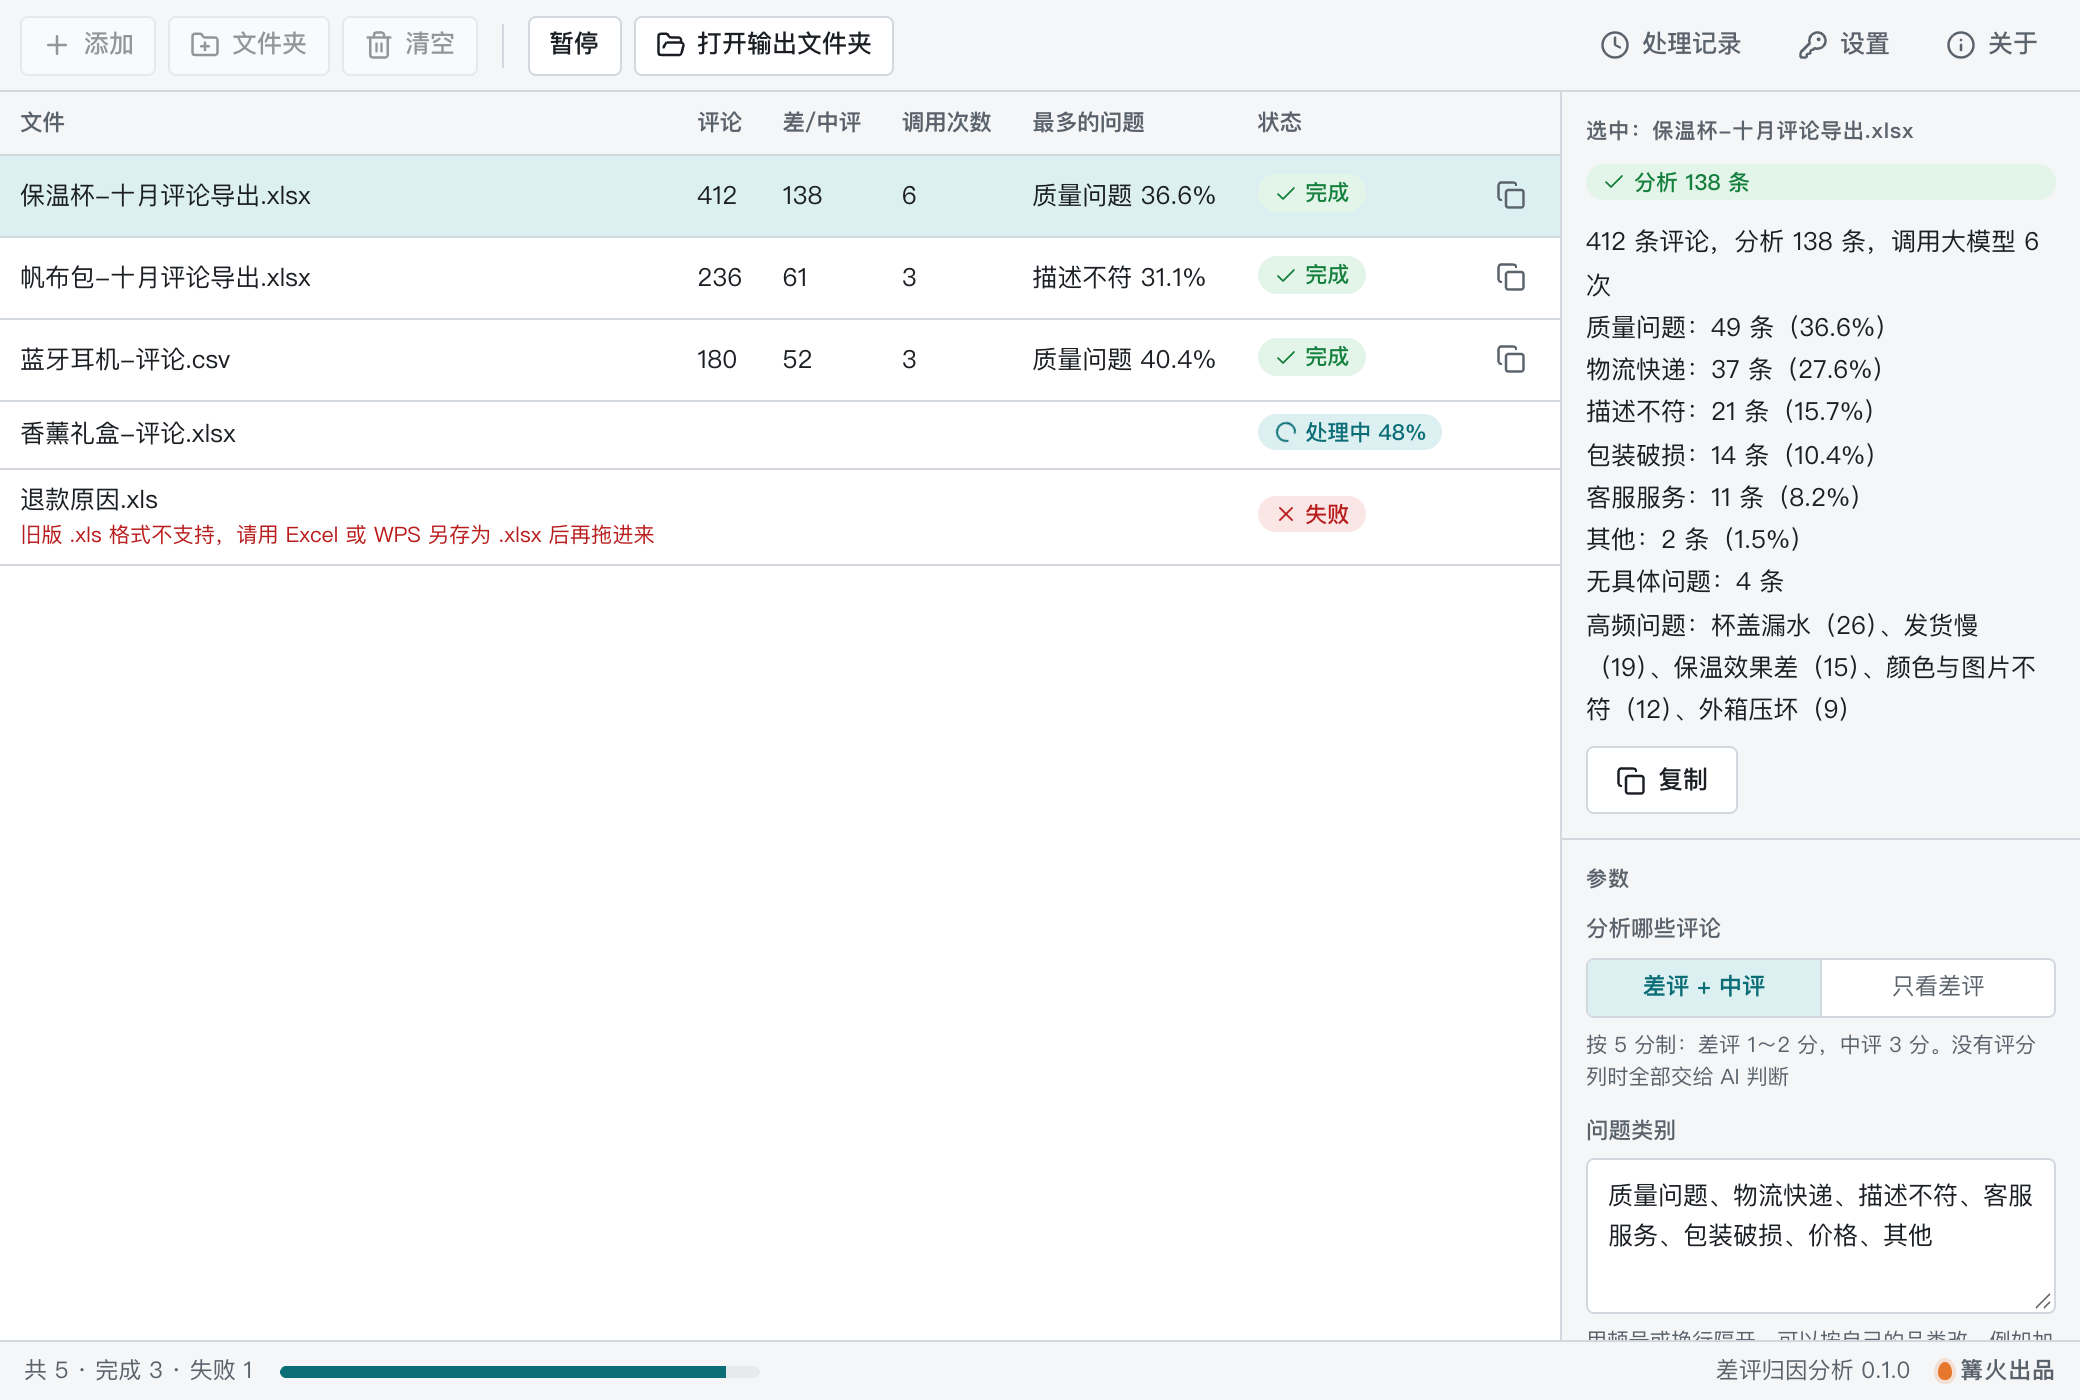
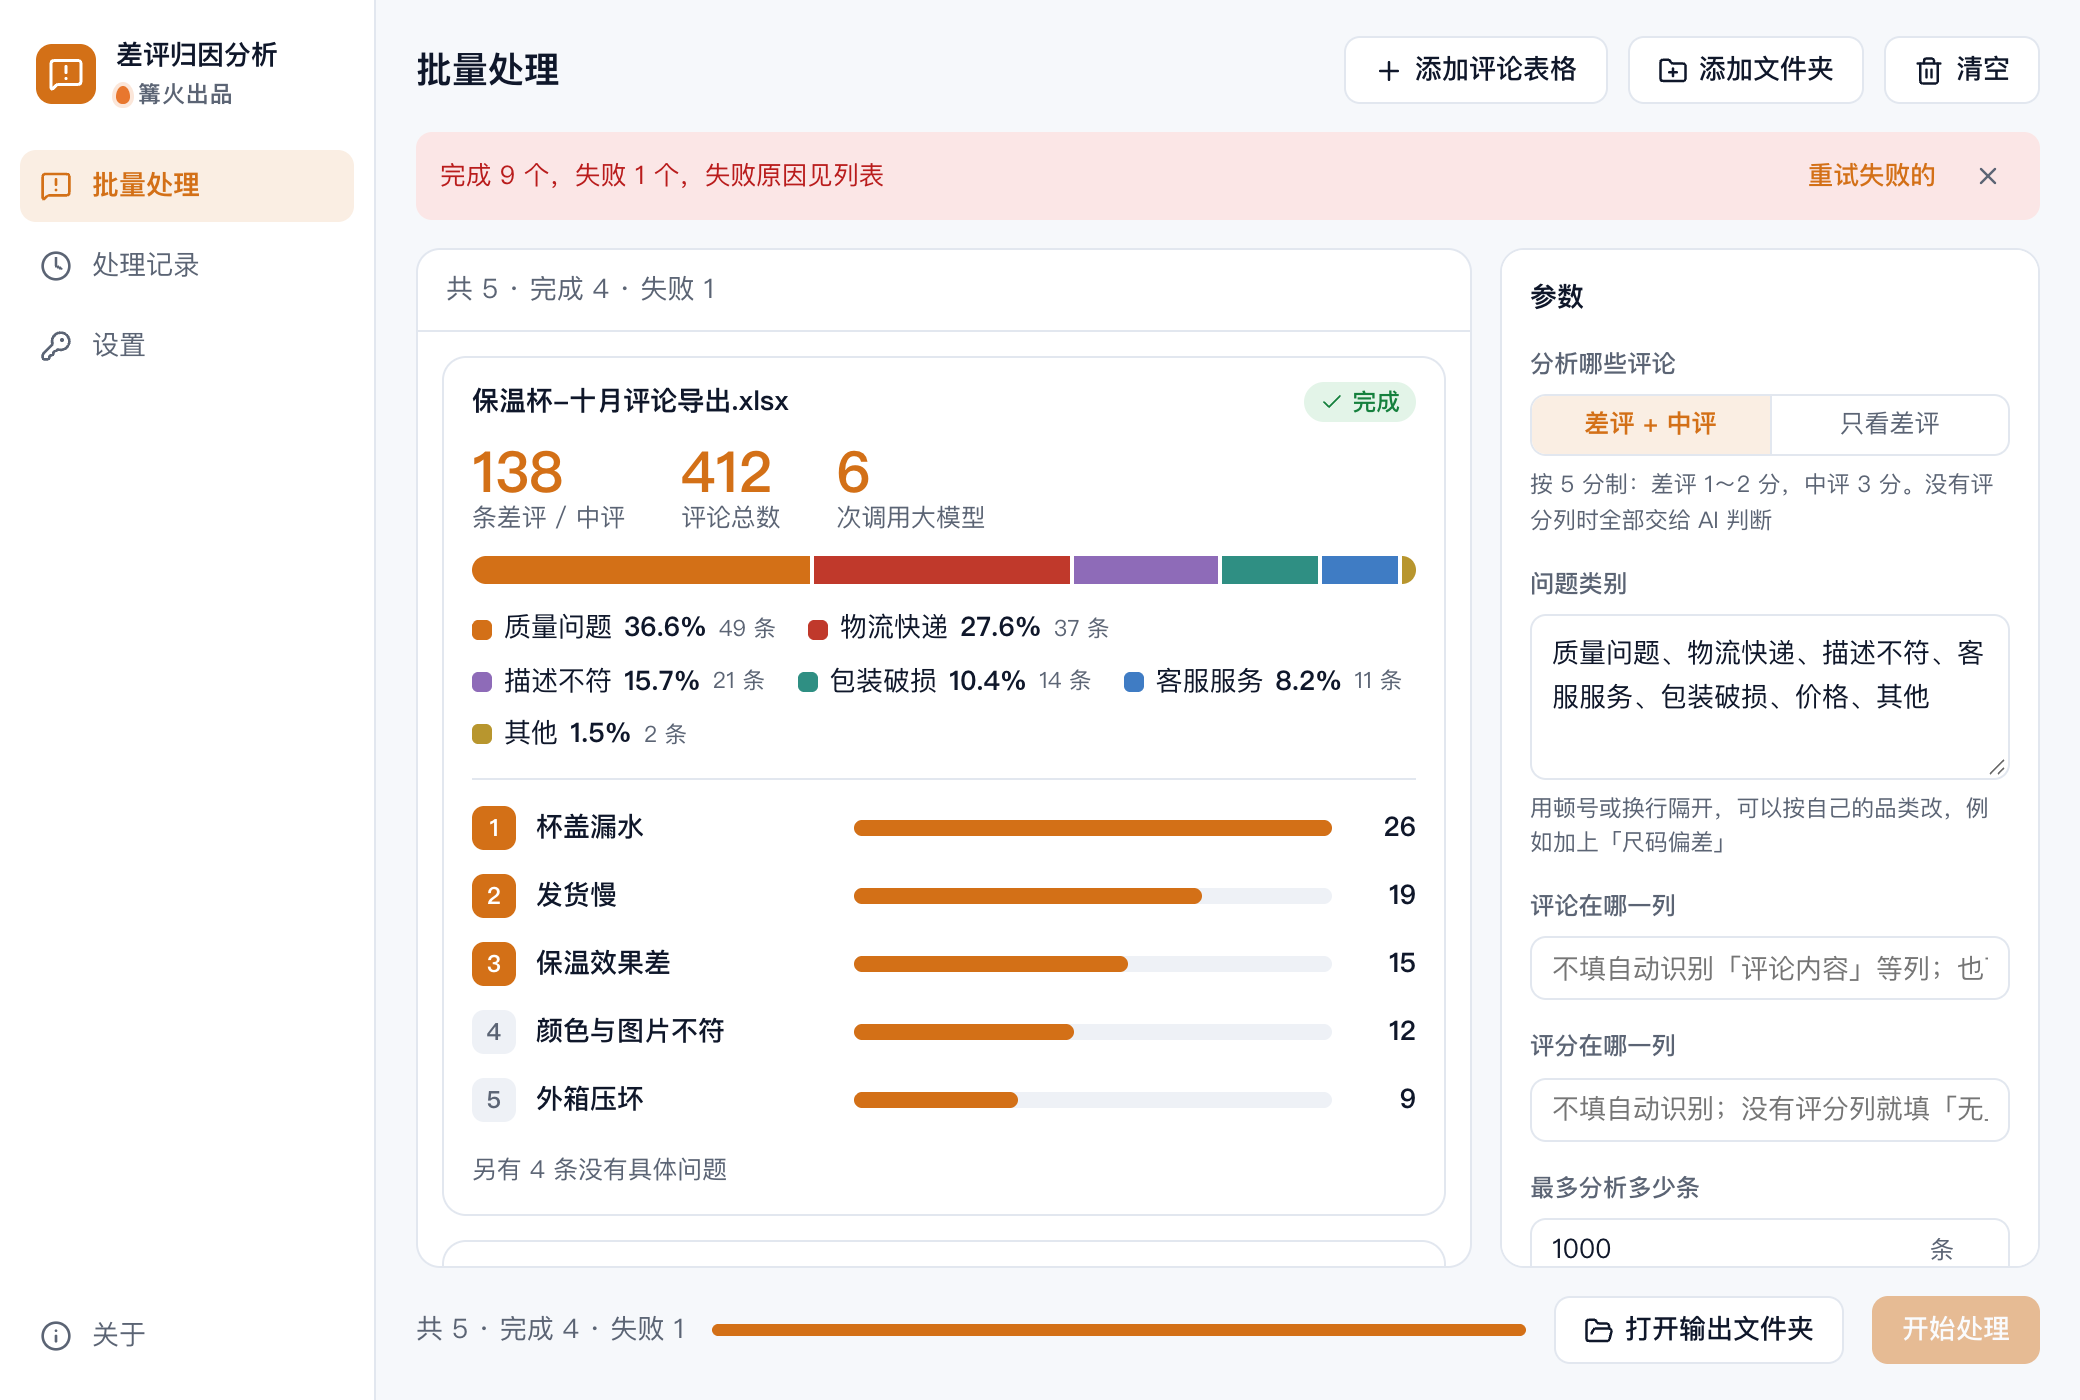
打磨：差评归因分析卡（占比条与高频问题排行），升至 0.2.0

diff --git a/src/tool/Insight.tsx b/src/tool/Insight.tsx
@@ -1,0 +1,85 @@
+// 差评归因的结果展示：把汇总文本画成「类别占比条 + 高频问题排行」，以及还没导入时的空状态示意。
+import { FileSpreadsheet } from 'lucide-react';
+import type { ItemResult } from '../kit/types';
+import './tool.css';
+
+const HUES = ['#D37017', '#C0392B', '#8E6BB8', '#2F8F83', '#3F7CC4', '#B8962E', '#7C8794'];
+
+interface Parsed {
+  head: string;
+  cats: { name: string; n: number; pct: number }[];
+  noIssue: number;
+  top: { issue: string; n: number }[];
+  notes: string[];
+}
+
+function parse(text: string): Parsed {
+  const p: Parsed = { head: '', cats: [], noIssue: 0, top: [], notes: [] };
+  text.split('\n').forEach((line, i) => {
+    const cat = /^(.+?)：(\d+) 条（([\d.]+)%）$/.exec(line);
+    const none = /^无具体问题：(\d+) 条$/.exec(line);
+    const top = /^高频问题：(.+)$/.exec(line);
+    if (i === 0) p.head = line;
+    else if (cat) p.cats.push({ name: cat[1], n: Number(cat[2]), pct: Number(cat[3]) });
+    else if (none) p.noIssue = Number(none[1]);
+    else if (top) top[1].split('、').forEach((t) => { const m = /^(.+)（(\d+)）$/.exec(t); if (m) p.top.push({ issue: m[1], n: Number(m[2]) }); });
+    else if (line.trim()) p.notes.push(line);
+  });
+  return p;
+}
+
+export function InsightBody({ result }: { result: ItemResult }) {
+  const p = parse(result.text ?? '');
+  const total = Number(/^(\d+) 条评论/.exec(p.head)?.[1] ?? 0);
+  const analyzed = Number(/分析 (\d+) 条/.exec(p.head)?.[1] ?? 0);
+  const calls = /调用大模型 (\d+) 次/.exec(p.head)?.[1];
+  if (!p.cats.length) return <p className="ri-head">{p.head || result.summary}</p>;
+  const max = Math.max(1, ...p.top.map((t) => t.n));
+  return (
+    <div className="ri-body">
+      <div className="ri-nums">
+        <div><b className="k-num">{analyzed}</b><span>条差评 / 中评</span></div>
+        {total > 0 && <div><b className="k-num">{total}</b><span>评论总数</span></div>}
+        {calls && <div><b className="k-num">{calls}</b><span>次调用大模型</span></div>}
+      </div>
+      <div className="ri-bar" role="img" aria-label={p.cats.map((c) => `${c.name} ${c.pct}%`).join('，')}>
+        {p.cats.map((c, i) => <i key={c.name} style={{ flex: c.n, background: HUES[i % HUES.length] }} />)}
+      </div>
+      <ul className="ri-cats">
+        {p.cats.map((c, i) => <li key={c.name}><i style={{ background: HUES[i % HUES.length] }} />{c.name}<b className="k-num">{c.pct}%</b><small className="k-num">{c.n} 条</small></li>)}
+      </ul>
+      {p.top.length > 0 && (
+        <ol className="ri-top">
+          {p.top.map((t, i) => (
+            <li key={t.issue}><span className="ri-rank k-num">{i + 1}</span><span className="ri-issue">{t.issue}</span><span className="ri-track"><i style={{ width: `${(t.n / max) * 100}%` }} /></span><b className="k-num">{t.n}</b></li>
+          ))}
+        </ol>
+      )}
+      {(p.noIssue > 0 || p.notes.length > 0) && <p className="ri-note">{[p.noIssue ? `另有 ${p.noIssue} 条没有具体问题` : '', ...p.notes].filter(Boolean).join('；')}</p>}
+    </div>
+  );
+}
+
+export function InsightEmpty({ hover }: { hover: boolean }) {
+  return (
+    <div className={`ri-empty${hover ? ' hover' : ''}`}>
+      <svg viewBox="0 0 420 120" aria-hidden="true">
+        <g className="ri-s-doc">
+          <rect x="8" y="12" width="104" height="96" rx="8" />
+          {[0, 1, 2, 3].map((i) => <rect key={i} className="ri-s-line" x="20" y={26 + i * 20} width={i === 3 ? 48 : 80} height="8" rx="3" />)}
+          <circle cx="94" cy="28" r="5" className="ri-s-star" />
+        </g>
+        <path className="ri-s-ar" d="M130 60h60m-9-9 9 9-9 9" />
+        <g>
+          <rect className="ri-s-seg" x="212" y="20" width="96" height="14" rx="3" fill="#D37017" />
+          <rect className="ri-s-seg" x="308" y="20" width="60" height="14" rx="3" fill="#C0392B" />
+          <rect className="ri-s-seg" x="368" y="20" width="40" height="14" rx="3" fill="#8E6BB8" />
+          {[78, 58, 40].map((w, i) => <g key={i}><rect className="ri-s-line" x="212" y={52 + i * 22} width="190" height="12" rx="3" /><rect x="212" y={52 + i * 22} width={w * 2.4} height="12" rx="3" fill="#D37017" opacity={1 - i * 0.2} /></g>)}
+        </g>
+      </svg>
+      <strong className="ri-h">把一堆差评，归成几个能改的问题</strong>
+      <p>拖入店铺后台导出的评论表（Excel 或 CSV），AI 把差评和中评归到质量、物流、描述不符等类别，给出占比条、高频问题排行和改进建议。</p>
+      <p className="ri-fmt"><FileSpreadsheet size={14} />支持 XLSX、CSV，可一次拖入多个文件</p>
+    </div>
+  );
+}

diff --git a/src/tool/tool.css b/src/tool/tool.css
@@ -1,0 +1,32 @@
+/* 差评归因分析：占比条 + 高频问题排行。类名以 ri- 开头，只用 kit.css 的变量。 */
+.ri-body { display: grid; gap: 12px; }
+.ri-head { margin: 0; }
+.ri-nums { display: flex; gap: 28px; flex-wrap: wrap; }
+.ri-nums > div { display: grid; line-height: 1.15; }
+.ri-nums b { font-size: 2.1em; color: var(--primary); }
+.ri-nums span { color: var(--muted); font-size: .92em; }
+.ri-bar { display: flex; height: 14px; gap: 2px; border-radius: 7px; overflow: hidden; }
+.ri-bar i { min-width: 4px; }
+.ri-cats { list-style: none; margin: 0; padding: 0; display: flex; flex-wrap: wrap; gap: 6px 16px; }
+.ri-cats li { display: inline-flex; align-items: center; gap: 6px; }
+.ri-cats li i { width: 10px; height: 10px; border-radius: 3px; flex: none; }
+.ri-cats small { color: var(--muted); }
+.ri-top { list-style: none; margin: 0; padding: 10px 0 0; border-top: 1px solid var(--line); display: grid; gap: 6px; }
+.ri-top li { display: grid; grid-template-columns: 22px minmax(7em, 11em) 1fr 2.4em; align-items: center; gap: 10px; min-height: 28px; }
+.ri-rank { width: 22px; height: 22px; border-radius: 6px; display: grid; place-items: center; background: var(--chip); color: var(--muted); font-size: .88em; font-weight: 600; }
+.ri-top li:nth-child(-n+3) .ri-rank { background: var(--primary); color: var(--on-primary); }
+.ri-issue { overflow: hidden; text-overflow: ellipsis; white-space: nowrap; font-weight: 500; }
+.ri-track { height: 8px; border-radius: 4px; background: var(--chip); overflow: hidden; }
+.ri-track i { display: block; height: 100%; border-radius: 4px; background: var(--primary); transition: width .2s var(--ease); }
+.ri-top b { text-align: right; }
+.ri-note { margin: 0; color: var(--muted); font-size: .92em; }
+.ri-empty { display: grid; justify-items: center; gap: 8px; padding: 22px 18px 10px; text-align: center; }
+.ri-empty svg { width: min(400px, 100%); }
+.ri-empty .ri-h { margin: 6px 0 0; font-size: 1.35em; font-weight: 700; }
+.ri-empty p { margin: 0; max-width: 46ch; color: var(--muted); line-height: 1.6; }
+.ri-empty p.ri-fmt { margin: 4px 0 0; max-width: none; display: inline-flex; white-space: nowrap; align-items: center; gap: 6px; padding: 4px 12px; border-radius: 999px; background: var(--chip); color: var(--muted); font-size: .92em; line-height: 1.5; }
+.ri-empty.hover .ri-fmt { background: var(--primary-soft); color: var(--primary); }
+.ri-s-doc rect:first-child { fill: var(--surface); stroke: var(--line-strong); stroke-width: 1.5; }
+.ri-s-line { fill: var(--chip); }
+.ri-s-star { fill: var(--err); }
+.ri-s-ar { fill: none; stroke: var(--primary); stroke-width: 2.5; stroke-linecap: round; stroke-linejoin: round; }

diff --git a/src/tool/index.ts b/src/tool/index.ts
@@ -1,5 +1,6 @@
 // 工具声明：差评归因分析
 import { MessageSquareWarning as MessageSquareWarningAsIcon } from 'lucide-react';
+import { createElement } from 'react';
 import type { BatchTool, RunContext } from '../kit/types';
 import { baseName, cellText, errText, guessColumn, isFatalLlmError, mapPool, resolveColumn, safeName, toTable } from './common';
 import {
@@ -7,6 +8,7 @@ import {
   parseRating, parseSuggestReply, pct, reportSheets, shouldAnalyze, summarize, type Detail, type Judged, type Review, type Scope,
 } from './core';
 import { readSheets, writeXlsx } from './xlsx';
+import { InsightBody, InsightEmpty } from './Insight';
 
 const COMMENT_KEYWORDS = [/^(评论|评价)(内容)?$/, /评论内容|评价内容|追评|买家评论|买家评价/, /评论|评价|留言/, /^内容$/, /comment|review|content/i];
 const RATING_KEYWORDS = [/评分|星级|打分|分数|评级|满意度/, /^(星|分)$/, /score|rating|star/i, /好评|差评/];
@@ -44,12 +46,14 @@ async function judgeBatch(batch: Review[], categories: string[], known: string[]
 const tool: BatchTool = {
   id: 'e20',
   name: '差评归因分析',
-  tagline: '导入评论导出表，AI 把差评、中评归到质量、物流、描述不符等类别，写出每条原因，汇总占比、高频问题 TOP10 和改进建议，导出 Excel 报告。',
+  tagline: '导入评论导出表，大模型把差评、中评归到质量、物流、描述不符等类别，写出每条原因，汇总占比、高频问题前十 和改进建议，导出 Excel 报告。',
   icon: MessageSquareWarningAsIcon,
   category: '电商运营',
   type: 'data',
   mode: 'batch',
-  resultView: 'table',
+  resultView: 'text',
+  Empty: InsightEmpty,
+  ResultBody: ({ result }) => createElement(InsightBody, { result }),
   columns: [['total', '评论'], ['analyzed', '差/中评'], ['calls', '调用次数'], ['top', '最多的问题']],
   needsLLM: true,
   concurrency: 1,

diff --git a/src/tool/preview.ts b/src/tool/preview.ts
@@ -13,8 +13,19 @@ const text1 = `412 条评论，分析 138 条，调用大模型 6 次
 
 const files: [string, number, Row['status'], Record<string, string | number>?, string?][] = [
   ['保温杯-十月评论导出.xlsx', 96_000, 'ok', { total: 412, analyzed: 138, calls: 6, top: '质量问题 36.6%' }, text1],
-  ['帆布包-十月评论导出.xlsx', 58_000, 'ok', { total: 236, analyzed: 61, calls: 3, top: '描述不符 31.1%' }, '236 条评论，分析 61 条，调用大模型 3 次'],
-  ['蓝牙耳机-评论.csv', 41_000, 'ok', { total: 180, analyzed: 52, calls: 3, top: '质量问题 40.4%' }, '180 条评论，分析 52 条，调用大模型 3 次'],
+  ['帆布包-十月评论导出.xlsx', 58_000, 'ok', { total: 236, analyzed: 61, calls: 3, top: '描述不符 31.1%' }, `236 条评论，分析 61 条，调用大模型 3 次
+描述不符：19 条（31.1%）
+质量问题：15 条（24.6%）
+尺码偏差：13 条（21.3%）
+物流快递：9 条（14.8%）
+其他：5 条（8.2%）
+高频问题：颜色与图片不符（11）、拉链卡顿（8）、偏小一码（7）`],
+  ['蓝牙耳机-评论.csv', 41_000, 'ok', { total: 180, analyzed: 52, calls: 3, top: '质量问题 40.4%' }, `180 条评论，分析 52 条，调用大模型 3 次
+质量问题：21 条（40.4%）
+客服服务：12 条（23.1%）
+描述不符：10 条（19.2%）
+其他：9 条（17.3%）
+高频问题：断连（11）、续航不足（8）、客服回复慢（7）`],
   ['香薰礼盒-评论.xlsx', 33_000, 'run'],
   ['退款原因.xls', 12_000, 'err', undefined, '旧版 .xls 格式不支持，请用 Excel 或 WPS 另存为 .xlsx 后再拖进来'],
 ];

diff --git a/src/tool/core.ts b/src/tool/core.ts
@@ -215,7 +215,7 @@ export function reportSheets(details: Detail[], s: Summary, suggestions: { probl
   title(['问题类别', '条数', '占比']);
   for (const c of s.categories) rows.push([c.name, c.count, pct(c.ratio)]);
   rows.push([]);
-  title(['高频问题 TOP10', '次数', '所属类别', '典型评论']);
+  title(['高频问题前十', '次数', '所属类别', '典型评论']);
   s.top.forEach((x) => rows.push([x.issue, x.count, x.category, x.example]));
   rows.push([]);
   title(['改进建议', '针对的问题']);

diff --git a/README.md b/README.md
@@ -30,7 +30,7 @@
 4. 评论列、评分列一般能自动认出；认不出时在参数里填列名或列字母。没有评分列就在「评分在哪一列」填「无」。
 5. 点「开始处理」。每个文件处理完，表格里显示评论数、差/中评数、**调用大模型的次数**和占比最高的问题；点一行，右侧能看到这个文件的分类明细。
 6. 全部处理完自动生成报告 Excel（一个文件时叫「原文件名-差评归因报告.xlsx」，多个文件时叫「差评归因报告.xlsx」，名字可在参数里改）：
-   - **汇总**：评论总数、分析条数、调用次数；各类别条数和占比；高频问题 TOP10（次数、所属类别、典型评论）；改进建议。
+   - **汇总**：评论总数、分析条数、调用次数；各类别条数和占比；高频问题 前十（次数、所属类别、典型评论）；改进建议。
    - **明细**：每条差评 / 中评的行号、评分、原文、问题类别、问题点、原因摘要（多个文件时多一列来源文件）。
 
 **费用控制**
@@ -45,7 +45,7 @@
 | 操作 | 应得到 |
 |---|---|
 | 拖入 `samples/评论导出.xlsx`（60 条评论，其中 1～3 分 36 条），默认参数，点「开始处理」 | 表格这一行显示：评论 60、差/中评 36、调用次数 2；完成提示「共分析 36 条差评 / 中评，调用大模型 3 次（含 1 次生成改进建议）。报告：…/评论导出-差评归因报告.xlsx」 |
-| 打开上面的报告 | 有「汇总」「明细」两个工作表。汇总里有「大模型调用次数 3」、7 个类别的条数和占比（不含「无问题」的条数加起来 = 100%）、高频问题 TOP10、3～6 条改进建议。明细 36 行，每行都有问题类别、问题点和原因摘要 |
+| 打开上面的报告 | 有「汇总」「明细」两个工作表。汇总里有「大模型调用次数 3」、7 个类别的条数和占比（不含「无问题」的条数加起来 = 100%）、高频问题 前十、3～6 条改进建议。明细 36 行，每行都有问题类别、问题点和原因摘要 |
 | 点「清空」，「分析哪些评论」改「只看差评」，重新拖入同一文件处理 | 差/中评 24、调用次数 1 |
 | 拖入 `samples/评论-无评分列.csv` 处理 | 右侧说明里有「没有评分列，由 AI 判断是否差评」；两条好评归为「无具体问题」，不计入占比 |
 | 「设置」里清空密钥后处理 | 显示失败：「还没有设置大模型：请到「设置」里填写接口地址、密钥和模型名」 |

diff --git a/CHANGELOG.md b/CHANGELOG.md
@@ -1,5 +1,11 @@
 # 更新记录
 
+## 0.2.0
+
+- 结果改为每个文件一张分析卡：大字数字、类别占比条、高频问题前五名排行，不再是纯表格。
+- 新增空状态示意图（评论表 → 占比条与排行）；换用侧栏布局，主色改为橙色。
+- Excel 汇总页「高频问题 TOP10」改名「高频问题前十」，界面文字全部中文。
+
 ## 0.1.0
 
 - 首个版本。
